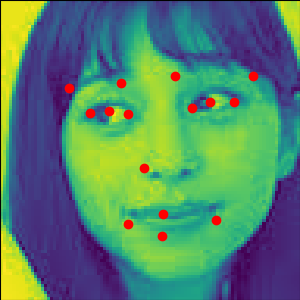
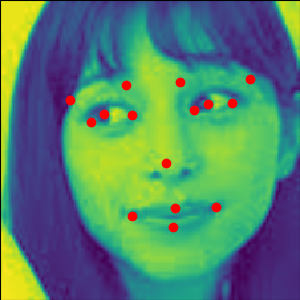
facial feature test image and output image are updated

diff --git a/facial_feature/facial_feature.py b/facial_feature/facial_feature.py
@@ -9,8 +9,8 @@ import ailia
 
 # TODO adapting 96 and 226
 
-img_path = "face.jpeg"
-# img_path = "test.png"
+# img_path = input("input image name: ")
+img_path = "test.png"
 weight_path = "resnet_facial_feature.onnx"
 model_path = "resnet_facial_feature.onnx.prototxt"
 
